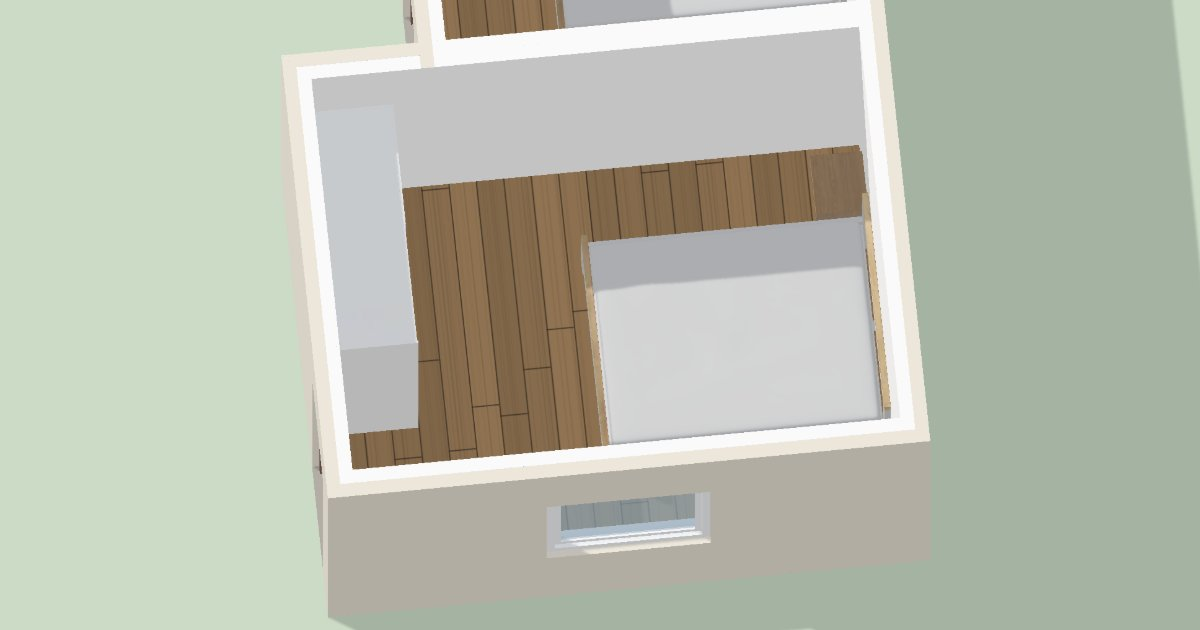
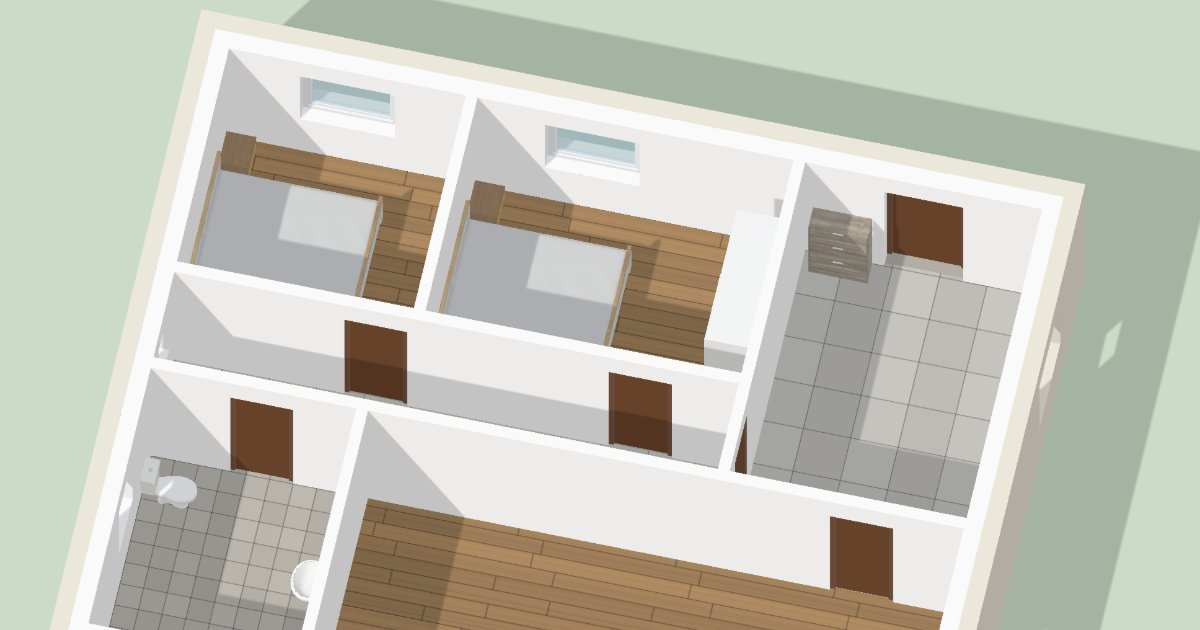
Články: grafika hned na začátku a obrázky, které dávají stavebně smysl
Minimální rozměry: noční část domu s obvodovými zdmi 45 cm, ložnice s dveřmi z průchozí
chodby, hala se vchodem, chodba 90 a 120 cm s lidmi; úvodní 3D. Půdorys domu: hotový půdorys
na začátek, ve vzorovém domě vybavená koupelna a WC, dveře WC ven, obývák s kuchyní.
Typy střech: porovnání na začátek. Koeficient nakypření: nákres kostky v zemi a korby.

diff --git a/public/css/app.css b/public/css/app.css
@@ -327,6 +327,12 @@ ol.tt-postup p { font-size: .93rem; color: var(--c-text-secondary); margin: 0; }
 .tt-rez-znacka text { fill: var(--c-on-primary); font: 700 17px var(--s-font-tech); text-anchor: middle; }
 .tt-clanek ol.tt-rez-legenda { margin: .85rem 0 0; font-size: .93rem; }
 .tt-rez-kota path { fill: none; stroke: var(--c-text); stroke-width: 1.5; }
+.tt-rez-obrys { fill: none; stroke: var(--c-text-secondary); stroke-width: 2; stroke-dasharray: 6 5; }
+.tt-rez-text { fill: var(--c-text); font: 700 22px var(--s-font-tech); text-anchor: middle; }
+.tt-rez-sipka { fill: none; stroke: var(--c-text-secondary); stroke-width: 3; }
+.tt-rez-sipka-hrot { fill: var(--c-text-secondary); }
+.tt-rez-korba { fill: none; stroke: var(--c-text); stroke-width: 4; stroke-linejoin: round; }
+.tt-rez-kolo { fill: var(--c-text-secondary); }
 .tt-rez-kota text { fill: var(--c-text); font: 600 20px var(--s-font-tech); text-anchor: middle; }
 .tt-rez-kota .tt-rez-kota-vlevo { text-anchor: start; }
 .tt-rez figcaption { font-size: .81rem; color: var(--c-text-secondary); margin-top: .4rem; }

diff --git a/resources/views/clanky/bloky/nakypreni.blade.php b/resources/views/clanky/bloky/nakypreni.blade.php
@@ -1,0 +1,29 @@
+{{-- Blok článku `::nakypreni`: 1 m³ zeminy v zemi a tatáž zemina na korbě, bez měřítka. Korba má stejně široké
+     dno jako kostka, zemina v ní sahá o čtvrtinu výš (koeficient 1,25 pro běžnou hlínu), čárkovaně úroveň 1 m³.
+     Barvy z tokenů (třídy tt-rez z řezu výkopu), popisy pod obrázkem kvůli telefonu. --}}
+<figure class="tt-rez">
+    <svg viewBox="0 0 640 250" role="img" aria-label="{{ __('clanky.nakyp_popis') }}">
+        {{-- Vlevo zemina a v ní kostka 1 m³ --}}
+        <rect class="tt-rez-zemina" x="0" y="80" width="300" height="170"/>
+        <rect class="tt-rez-zasyp" x="100" y="115" width="100" height="100"/>
+        <rect class="tt-rez-obrys" x="100" y="115" width="100" height="100"/>
+        <text class="tt-rez-text" x="150" y="173">{{ __('clanky.nakyp_v_zemi') }}</text>
+        {{-- Šipka: vykopání --}}
+        <path class="tt-rez-sipka" d="M318 165 H352"/>
+        <polygon class="tt-rez-sipka-hrot" points="364,165 350,157 350,173"/>
+        {{-- Vpravo korba se stejně širokým dnem: zemina o čtvrtinu výš, čárkovaně úroveň 1 m³ --}}
+        <rect class="tt-rez-zasyp" x="450" y="90" width="100" height="125"/>
+        <line class="tt-rez-obrys" x1="450" y1="115" x2="550" y2="115"/>
+        <path class="tt-rez-korba" d="M447 66 V218 H553 V66"/>
+        <circle class="tt-rez-kolo" cx="474" cy="233" r="11"/>
+        <circle class="tt-rez-kolo" cx="526" cy="233" r="11"/>
+        <text class="tt-rez-text" x="500" y="54">{{ __('clanky.nakyp_na_hromade') }}</text>
+        {{-- Čísla, význam pod obrázkem --}}
+        <g class="tt-rez-znacka"><rect x="22" y="22" width="28" height="28" rx="5"/><text x="36" y="42">1</text></g>
+        <g class="tt-rez-znacka"><rect x="590" y="22" width="28" height="28" rx="5"/><text x="604" y="42">2</text></g>
+    </svg>
+    <ol class="tt-rez-legenda">
+        <li>{{ __('clanky.nakyp_1') }}</li>
+        <li>{{ __('clanky.nakyp_2') }}</li>
+    </ol>
+</figure>

diff --git a/lang/de/clanky.php b/lang/de/clanky.php
@@ -67,6 +67,11 @@ return [
     'rez_sklep_dole' => '0,8 m',
     'rez_sklep_hloubka' => '3,2 m',
     'rez_sklep_sirka' => '12 m',
+    'nakyp_popis' => 'Erde im Boden und nach dem Aushub auf der Halde, nicht maßstäblich',
+    'nakyp_v_zemi' => '1 m³',
+    'nakyp_na_hromade' => '1,25 m³',
+    'nakyp_1' => 'Im Boden: 1 m³ gewöhnlicher Erde, wiegt etwa 1,8 t.',
+    'nakyp_2' => 'Ausgehoben auf der Ladefläche oder auf der Halde: etwa 1,25 m³, weil zwischen den Brocken Lücken bleiben. Die gestrichelte Linie zeigt 1 m³. Sie wiegt weiterhin etwa 1,8 t.',
 
     'schod_nadpis' => 'Berechne deine Treppe',
     'schod_uvod' => 'Gib die Höhe von Fußboden zu Fußboden ein. Die Prüfungen folgen den Vorschriften und der üblichen Praxis für :zeme. Gerade Treppen und Treppen mit Podest werden genauso berechnet wie im TupTuDu-Editor.',

diff --git a/lang/fr/clanky.php b/lang/fr/clanky.php
@@ -67,6 +67,11 @@ return [
     'rez_sklep_dole' => '0,8 m',
     'rez_sklep_hloubka' => '3,2 m',
     'rez_sklep_sirka' => '12 m',
+    'nakyp_popis' => 'Terre en place et en tas après terrassement, sans échelle',
+    'nakyp_v_zemi' => '1 m³',
+    'nakyp_na_hromade' => '1,25 m³',
+    'nakyp_1' => 'En place : 1 m³ de terre ordinaire, qui pèse environ 1,8 t.',
+    'nakyp_2' => 'Une fois extraite, dans la benne ou en tas : environ 1,25 m³, car les mottes laissent des vides entre elles. Le pointillé marque le niveau de 1 m³. Elle pèse toujours environ 1,8 t.',
 
     'schod_nadpis' => 'Calculez votre escalier',
     'schod_uvod' => 'Saisissez la hauteur de sol à sol. Les contrôles suivent les règles et les usages pour :zeme. Les escaliers droits et avec palier sont calculés comme dans l’éditeur TupTuDu.',

diff --git a/lang/es/clanky.php b/lang/es/clanky.php
@@ -67,6 +67,11 @@ return [
     'rez_sklep_dole' => '0,8 m',
     'rez_sklep_hloubka' => '3,2 m',
     'rez_sklep_sirka' => '12 m',
+    'nakyp_popis' => 'Tierra en el terreno y amontonada tras la excavación, sin escala',
+    'nakyp_v_zemi' => '1 m³',
+    'nakyp_na_hromade' => '1,25 m³',
+    'nakyp_1' => 'En el terreno: 1 m³ de tierra común, pesa unas 1,8 t.',
+    'nakyp_2' => 'Excavada, en la caja del camión o en el montón: unos 1,25 m³, porque los terrones dejan huecos entre sí. La línea discontinua marca 1 m³. Sigue pesando unas 1,8 t.',
 
     'schod_nadpis' => 'Calcula tu escalera',
     'schod_uvod' => 'Introduce la altura de suelo a suelo. Los controles siguen las normas y la práctica habitual para :zeme. Las escaleras rectas y con descansillo salen igual que en el editor de TupTuDu.',

diff --git a/lang/en/clanky.php b/lang/en/clanky.php
@@ -67,6 +67,11 @@ return [
     'rez_sklep_dole' => '0.8 m',
     'rez_sklep_hloubka' => '3.2 m',
     'rez_sklep_sirka' => '12 m',
+    'nakyp_popis' => 'Soil in the ground and on a heap after digging, not to scale',
+    'nakyp_v_zemi' => '1 m³',
+    'nakyp_na_hromade' => '1.25 m³',
+    'nakyp_1' => 'In the ground: 1 m³ of ordinary soil, weighing about 1.8 t.',
+    'nakyp_2' => 'Dug out, in a truck or on a heap: about 1.25 m³, because the clods leave gaps between them. The dashed line marks 1 m³. It still weighs about 1.8 t.',
 
     'schod_nadpis' => 'Calculate your staircase',
     'schod_uvod' => 'Enter the height from floor to floor. The checks follow the rules and common practice for :zeme. Straight stairs and stairs with landings come out the same as in the TupTuDu editor.',

diff --git a/lang/pl/clanky.php b/lang/pl/clanky.php
@@ -67,6 +67,11 @@ return [
     'rez_sklep_dole' => '0,8 m',
     'rez_sklep_hloubka' => '3,2 m',
     'rez_sklep_sirka' => '12 m',
+    'nakyp_popis' => 'Ziemia w gruncie i po wykopaniu na hałdzie, bez skali',
+    'nakyp_v_zemi' => '1 m³',
+    'nakyp_na_hromade' => '1,25 m³',
+    'nakyp_1' => 'W gruncie: 1 m³ zwykłej ziemi, waży około 1,8 t.',
+    'nakyp_2' => 'Po wykopaniu na skrzyni lub na hałdzie: około 1,25 m³, bo grudy zostawiają między sobą szczeliny. Linia przerywana to poziom 1 m³. Waży nadal około 1,8 t.',
 
     'schod_nadpis' => 'Policz swoje schody',
     'schod_uvod' => 'Wpisz wysokość od podłogi do podłogi. Kontrole odpowiadają przepisom i praktyce dla :zeme. Schody proste i schody ze spocznikami wychodzą tak samo jak w edytorze TupTuDu.',

diff --git a/lang/it/clanky.php b/lang/it/clanky.php
@@ -67,6 +67,11 @@ return [
     'rez_sklep_dole' => '0,8 m',
     'rez_sklep_hloubka' => '3,2 m',
     'rez_sklep_sirka' => '12 m',
+    'nakyp_popis' => 'Terra in posto e sul cumulo dopo lo scavo, non in scala',
+    'nakyp_v_zemi' => '1 m³',
+    'nakyp_na_hromade' => '1,25 m³',
+    'nakyp_1' => 'In posto: 1 m³ di terra comune, pesa circa 1,8 t.',
+    'nakyp_2' => 'Scavata, sul cassone o sul cumulo: circa 1,25 m³, perché le zolle lasciano vuoti tra loro. La linea tratteggiata indica 1 m³. Pesa sempre circa 1,8 t.',
 
     'schod_nadpis' => 'Calcola la tua scala',
     'schod_uvod' => 'Inserisci l’altezza da pavimento a pavimento. I controlli seguono le norme e la prassi per :zeme. Le scale dritte e con pianerottolo risultano uguali all’editor TupTuDu.',

diff --git a/lang/sk/clanky.php b/lang/sk/clanky.php
@@ -67,6 +67,11 @@ return [
     'rez_sklep_dole' => '0,8 m',
     'rez_sklep_hloubka' => '3,2 m',
     'rez_sklep_sirka' => '12 m',
+    'nakyp_popis' => 'Zemina v zemi a po vykopaní na kope, bez mierky',
+    'nakyp_v_zemi' => '1 m³',
+    'nakyp_na_hromade' => '1,25 m³',
+    'nakyp_1' => 'V zemi: 1 m³ bežnej hliny, váži asi 1,8 t.',
+    'nakyp_2' => 'Po vykopaní na korbe alebo na kope: asi 1,25 m³, hrudy medzi sebou nechajú medzery. Čiarkovane je úroveň 1 m³. Váži stále asi 1,8 t.',
 
     'schod_nadpis' => 'Vypočítaj si schodisko',
     'schod_uvod' => 'Zadaj výšku od podlahy k podlahe. Kontroly zodpovedajú predpisom a zvyklostiam pre :zeme. Priame schody a schody s medzipodestami vyjdú rovnako ako v editore TupTuDu.',

diff --git a/lang/cs/clanky.php b/lang/cs/clanky.php
@@ -68,6 +68,11 @@ return [
     'rez_sklep_dole' => '0,8 m',
     'rez_sklep_hloubka' => '3,2 m',
     'rez_sklep_sirka' => '12 m',
+    'nakyp_popis' => 'Zemina v zemi a po vykopání na hromadě, bez měřítka',
+    'nakyp_v_zemi' => '1 m³',
+    'nakyp_na_hromade' => '1,25 m³',
+    'nakyp_1' => 'V zemi: 1 m³ běžné hlíny, váží asi 1,8 t.',
+    'nakyp_2' => 'Po vykopání na korbě nebo na hromadě: asi 1,25 m³, hrudky mezi sebou nechají mezery. Čárkovaně je úroveň 1 m³. Váží pořád asi 1,8 t.',
 
     // Kalkulačka schodiště (clanky/bloky/kalkulacka-schodiste)
     'schod_nadpis' => 'Spočítej si schodiště',

diff --git a/resources/clanky/cs/minimalni-rozmery-mistnosti.md b/resources/clanky/cs/minimalni-rozmery-mistnosti.md
@@ -20,6 +20,8 @@ souvisejici: jak-nakreslit-pudorys-domu, vypocet-schodiste
 - Vyhláška 146/2024 Sb., § 39 odst. 2: přenášení předmětů se u rodinného domu nevyžaduje | https://www.zakonyprolidi.cz/cs/2024-146
 - Finance.cz: Chodba je i o pocitech (chodba v RD 130 až 140 cm, při 90 cm se dva minou jen taktak) | https://www.finance.cz/clanky/30844-chodba-a-schodiste-chodba-je-i-o-pocitech-3-dil
 ---
+::obrazek /img/clanky/minimalni-rozmery-mistnosti/minimalni-rozmery-mistnosti-uvod.webp | Noční část domu ve 3D shora: dvě ložnice s postelí, nočními stolky a skříní, chodba, koupelna a vstupní hala s botníkem. | Ložnice 3 × 3 m a 3 × 4 m s postelí 160 × 200, chodba široká 120 cm, koupelna a hala, editor TupTuDu | 1200 | 700
+
 ## Minimální rozměry místností v Česku
 
 | Místnost | Minimum v Česku | Co se do ní reálně vejde |
@@ -37,7 +39,7 @@ Postel 160 × 200 zabere s rámem asi 165 × 210 cm. Kolem ní nech aspoň 60 cm
 
 Ve čtvercové ložnici 3 × 3 m, tedy 9 m², zůstane u nohou postele 90 cm. Na skříň i průchod to nestačí, leda postel přisuneš ke zdi a kdo spí u ní, bude vstávat přes druhého. Skříň se vejde od zhruba 11 m²: s posuvnou skříní 3 × 3,6 m (210 + 70 + 80 cm), s otvíravou 3 × 3,7 m (210 + 60 + 100 cm). Záleží i na tom, kde jsou dveře. Ložnice 3 × 4 m má po stranách postele skoro 70 cm a mezi postelí a skříní 1,3 m.
 
-::obrazek /img/clanky/minimalni-rozmery-mistnosti/loznice-pudorys.webp | Půdorys dvou ložnic: ve 3 × 3 m postel se stolky, ve 3 × 4 m navíc šatní skříň. | Ložnice 3 × 3 m a 3 × 4 m s postelí 165 × 210 cm. V menší zbude u nohou postele 90 cm, ve větší je mezi postelí a skříní 130 cm a po stranách postele skoro 70 cm. Čísla na okraji jsou vnější kóty včetně zdí, editor TupTuDu | 1200 | 868
+::obrazek /img/clanky/minimalni-rozmery-mistnosti/loznice-pudorys.webp | Půdorys noční části domu: ložnice 3 × 3 m s postelí a stolky, ložnice 3 × 4 m navíc se šatní skříní a chodba 120 cm, ze které vedou dveře do obou ložnic, do koupelny a do vstupní haly. | Ložnice 3 × 3 m a 3 × 4 m s postelí 165 × 210 cm. V menší zbude u nohou postele 90 cm, ve větší je mezi postelí a skříní 130 cm a po stranách postele skoro 70 cm. Dveře z chodby se otvírají do volného místa u nohou postele, editor TupTuDu | 1200 | 621
 
 ## Dětský pokoj a pokoj pro jednoho
 
@@ -47,7 +49,7 @@ Na jedno dítě 8 m² stačí, záleží ale na tvaru: v pokoji širokém 2,2 m 
 
 Chodba v rodinném domě nemá v Česku předpisem dané minimum. V 90 cm projde jeden člověk a druhý musí uhnout. Od 120 cm se minou dva, s botníkem hlubokým 30 cm počítej se 150 cm. Dlouhou pohovku nebo skříň je potřeba z chodby zatočit do dveří: s dveřmi 80 cm chce chodba kolem 125 cm, s dveřmi 90 cm stačí asi 105 cm. Schodiště má vlastní pravidla, najdeš je u [výpočtu schodiště](clanek:vypocet-schodiste).
 
-::obrazek /img/clanky/minimalni-rozmery-mistnosti/chodba-90-120.webp | Půdorys dvou chodeb dlouhých 3 m, širokých 90 a 120 cm, v širší je botník. | Chodba 90 cm a 120 cm. V širší zbude vedle botníku hlubokého 30 cm ještě 90 cm, editor TupTuDu | 1040 | 1126
+::obrazek /img/clanky/minimalni-rozmery-mistnosti/chodba-90-120.webp | Výřez půdorysu se stejnou chodbou širokou 90 a 120 cm: v užší jde jeden člověk, v širší se minou dva. Z chodby vedou dveře do ložnic, do koupelny a do haly. | Stejná chodba široká 90 cm a 120 cm. Ve 120 cm se dva lidé minou, v 90 cm musí jeden uhnout, editor TupTuDu | 1200 | 876
 
 ## Světlá výška místnosti
 

diff --git a/resources/clanky/cs/jak-nakreslit-pudorys-domu.md b/resources/clanky/cs/jak-nakreslit-pudorys-domu.md
@@ -24,6 +24,8 @@ souvisejici: minimalni-rozmery-mistnosti, vypocet-schodiste, typy-strech, barva-
 - ESTAV.cz: Schodiště a jeho základní rozměry (2h + b = 630 mm) | https://www.estav.cz/cz/2581.schodiste-a-jeho-zakladni-rozmery
 - Kalkulačka TupTuDu (článek Výpočet schodiště): 2,90 m mezi podlažími = 17 výšek po 171 mm, nášlap 289 mm, přímé rameno 4,62 m; 3,05 m = 18 výšek, rameno 4,95 m (nášlap aspoň 275 mm podle vyhlášky 146/2024 Sb.) | https://www.tuptudu.com
 ---
+::obrazek /img/clanky/jak-nakreslit-pudorys-domu/pudorys-prizemi.webp | Půdorys přízemí rodinného domu s kótami v centimetrech a s názvy a plochami místností: obývák s kuchyní 33,4 m², pokoj 12,1 m², ložnice 10,6 m², koupelna 8,8 m², pracovna 8,1 m², zádveří 5,8 m², WC 1,8 m². | Přízemí vzorového domu 12,54 × 8,23 m s kótami, místnostmi a plochami, editor TupTuDu | 1200 | 857
+
 ## Než začneš kreslit
 
 Připrav si rozměry pozemku a světové strany. V Česku má rodinný dům od hranice pozemku obvykle stát aspoň 2 m, měří se k líci stěny, ale i k terase nebo balkonu. Další podmínky určuje územní plán.
@@ -40,8 +42,6 @@ Sepiš místnosti s přibližnou plochou a rozděl je na denní a noční část
 6. **Místnosti.** Každý uzavřený prostor pojmenuj a porovnej jeho plochu se seznamem.
 7. **Nábytek.** Postel, stůl a skříně vlož ve skutečné velikosti. Teprve tady se ukáže, jestli je ložnice opravdu dost velká.
 8. **Kontrola.** Projdi cestu od vchodu do kuchyně a do koupelny, žádná by neměla vést přes jiný pokoj. Zkontroluj vnější rozměry a odstupy od hranic.
-
-::obrazek /img/clanky/jak-nakreslit-pudorys-domu/pudorys-prizemi.webp | Půdorys přízemí rodinného domu s kótami v centimetrech a s názvy a plochami místností: obývák 33,4 m², pokoj 12,1 m², ložnice 10,6 m², koupelna 8,8 m², pracovna 8,1 m², zádveří 5,8 m², WC 1,8 m². | Přízemí vzorového domu 12,54 × 8,23 m s kótami, místnostmi a plochami, editor TupTuDu | 1200 | 857
 
 | Prvek | Běžně v Česku |
 |:---|---:|
